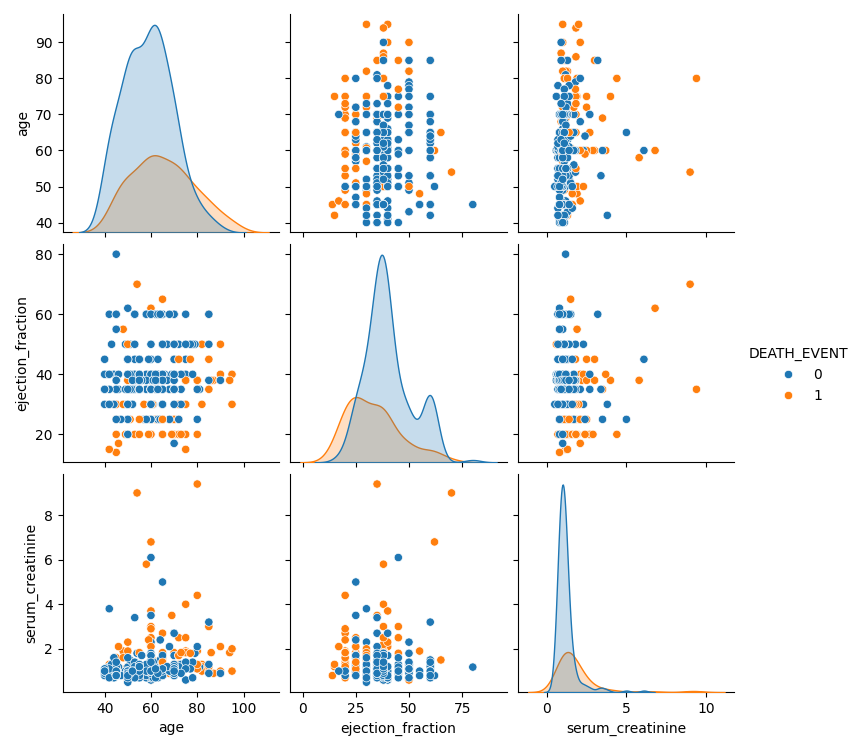
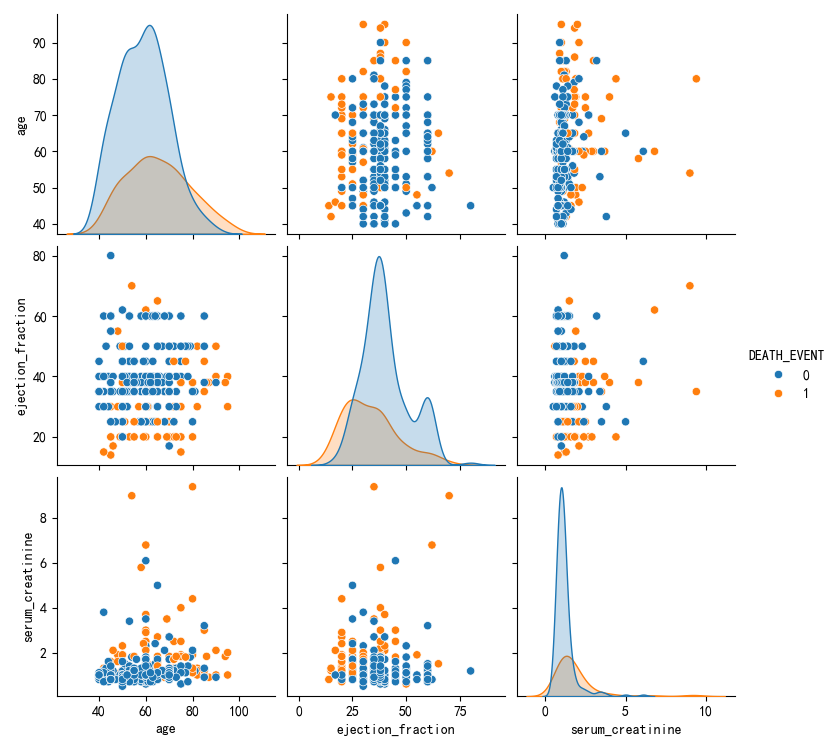
2-2

diff --git a/task/survive-rate-of-patients-heart-failure/survival_prediction.py b/task/survive-rate-of-patients-heart-failure/survival_prediction.py
@@ -6,6 +6,16 @@ from sklearn.metrics import accuracy_score, classification_report
 from sklearn.model_selection import cross_val_score, StratifiedKFold
 import matplotlib.pyplot as plt
 import seaborn as sns
+from sklearn.ensemble import RandomForestClassifier
+from sklearn.svm import SVC
+from sklearn.model_selection import GridSearchCV
+from sklearn.metrics import roc_auc_score
+import matplotlib
+matplotlib.rcParams['font.sans-serif'] = ['SimHei']
+matplotlib.rcParams['axes.unicode_minus'] = False
+
+# 在joblib导入部分修正
+import joblib
 
 # 数据加载
 data = pd.read_csv('data/heart_failure_clinical_records_dataset.csv')
@@ -71,3 +81,43 @@ sns.barplot(x='importance', y='feature', data=feature_importance)
 plt.title('特征重要性排序')
 plt.tight_layout()
 plt.savefig('feature_importance.png')
+
+# 在模型训练前添加算法对比
+algorithms = {
+    'Logistic Regression': LogisticRegression(class_weight='balanced', max_iter=1000),
+    'Random Forest': RandomForestClassifier(class_weight='balanced', n_jobs=-1),
+    'SVM': SVC(class_weight='balanced', probability=True)
+}
+
+# 添加超参数网格
+param_grid = {
+    'Logistic Regression': {'C': [0.01, 0.1, 1, 10], 'solver': ['liblinear', 'saga']},
+    'Random Forest': {'n_estimators': [50, 100], 'max_depth': [3, 5, None]},
+    'SVM': {'C': [0.1, 1, 10], 'kernel': ['linear', 'rbf']}
+}
+
+# 模型对比与调优
+results = {}
+for name, model in algorithms.items():
+    gs = GridSearchCV(model, param_grid[name], cv=5, scoring='accuracy', n_jobs=-1)
+    gs.fit(X_train_scaled, y_train)
+    
+    # 记录最佳模型
+    best_model = gs.best_estimator_
+    y_pred = best_model.predict(X_test_scaled)
+    
+    # 存储结果
+    results[name] = {
+        'best_params': gs.best_params_,
+        'accuracy': accuracy_score(y_test, y_pred),
+        'roc_auc': roc_auc_score(y_test, best_model.predict_proba(X_test_scaled)[:,1])
+    }
+
+# 输出对比结果
+print('\n算法对比结果：')
+for name, metrics in results.items():
+    print(f'{name}:\n  最佳参数：{metrics["best_params"]}\n  准确率：{metrics["accuracy"]:.3f}\n  AUC：{metrics["roc_auc"]:.3f}\n')
+
+# 保存最佳模型
+import joblib
+joblib.dump(best_model, 'best_model.pkl')
